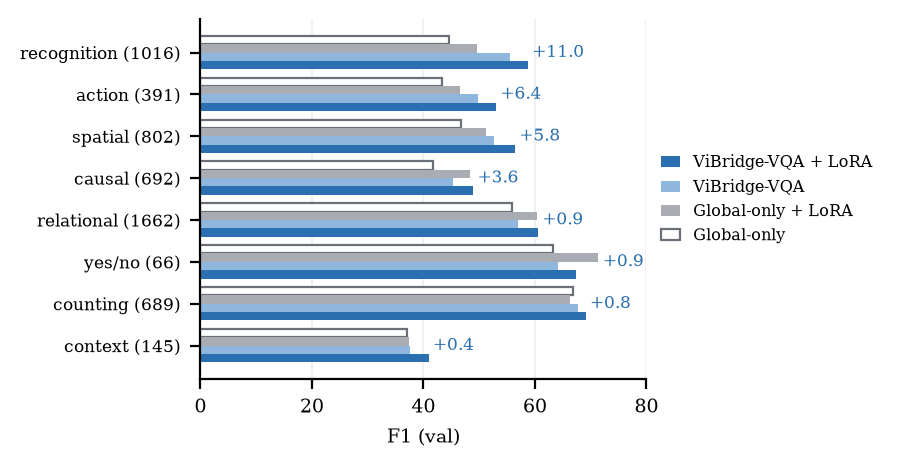
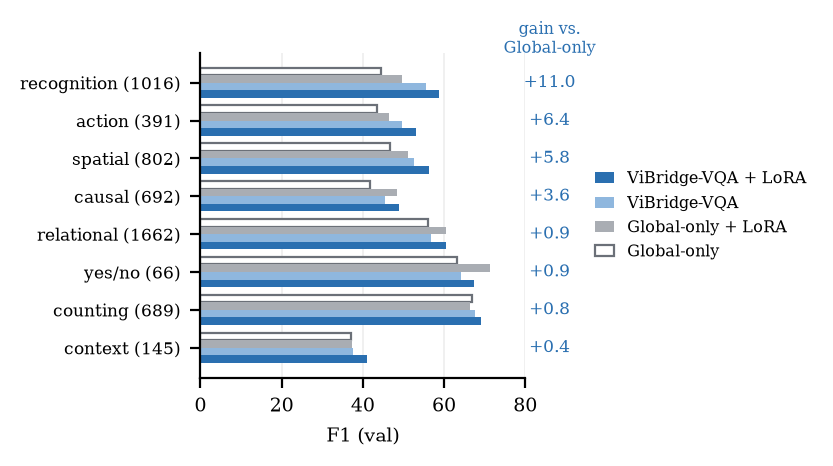
paper(aciids2027): Fig. 3 gains of ViBridge-VQA over Global-only in a labelled column next to the bars

diff --git a/paper/aciids2027/figures/make_types.py b/paper/aciids2027/figures/make_types.py
@@ -26,10 +26,12 @@ h = 0.2
 for i, (m, kw, lab) in enumerate(MODELS):
     ax.barh([y + (1.5 - i) * h for y in range(len(order))], [P[m][c]["f1"] for c in order], h,
             label=lab, **kw)
+GX = 86                               # a separate column, outside the bars: gain of ViBridge-VQA over Global-only
 for y, c in enumerate(order):
     gain = P["g14-k36"][c]["f1"] - P["global_only"][c]["f1"]
-    top = max(P[m][c]["f1"] for m, _, _ in MODELS)
-    ax.text(top + 0.8, y, f"{gain:+.1f}", va="center", fontsize=6, color=BLUE)
+    ax.text(GX, y, f"{gain:+.1f}", va="center", ha="center", fontsize=6, color=BLUE, clip_on=False)
+ax.text(GX, len(order) - 0.35, "gain vs.\nGlobal-only", va="bottom", ha="center", fontsize=5.6,
+        color=BLUE, clip_on=False)
 ax.set_yticks(range(len(order)))
 ax.set_yticklabels([f"{label.get(c, c)} ({P['g14-k36'][c]['n']})" for c in order], fontsize=6.2)
 ax.set_xlabel("F1 (val)")
@@ -37,7 +39,7 @@ ax.set_xlim(0, 80)
 ax.grid(axis="x", color="#eeeeee", lw=0.6); ax.set_axisbelow(True)
 handles, labels = ax.get_legend_handles_labels()
 ax.legend(handles[::-1], labels[::-1], frameon=False, fontsize=5.8, loc="center left",
-          bbox_to_anchor=(1.0, 0.5), handlelength=1.2)
+          bbox_to_anchor=(1.17, 0.5), handlelength=1.2)
 fig.tight_layout()
 fig.savefig(OUT / "fig_types.pdf", bbox_inches="tight")
 fig.savefig(OUT / "fig_types.png", dpi=200, bbox_inches="tight")

diff --git a/paper/aciids2027/Section/Experiments.tex b/paper/aciids2027/Section/Experiments.tex
@@ -263,7 +263,7 @@ metrics (+3.61 versus +2.62 F1, +12.31 versus +8.24 CIDEr). Without local tokens
 \centering
 \includegraphics[width=\linewidth]{fig_types}
 \caption{Validation F1 by reasoning type (number of questions), sorted by the gain of ViBridge-VQA
-over Global-only (numbers).}
+over Global-only (right column).}
 \label{fig:types}
 \end{figure}
 
